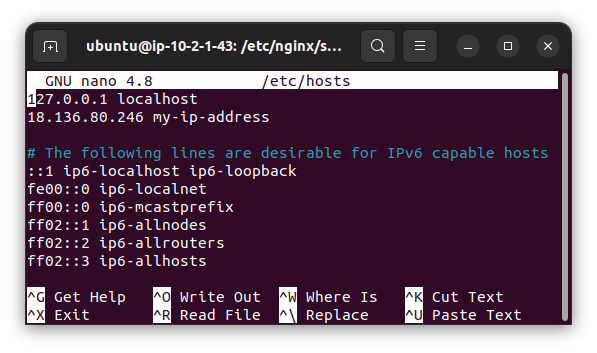
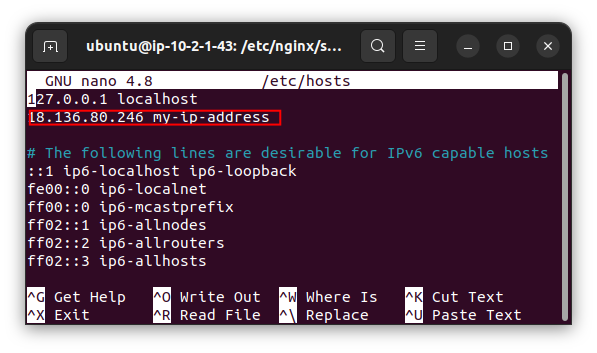
1.0

Changed region(s): [[0.0302, 0.3116, 0.4824, 0.3739]]

diff --git a/README.md b/README.md
@@ -1,5 +1,25 @@
 ## Jwaban Interview PT. Global Sukses Solusi (RUN System)
 
-- coba
+Sebelumnya saya mohon maaf mengganggu waktu dari Pak Budi, Pak Tedi, dan Bu Cita. Terima kasih telah memberikan saya waktu dan kesempatan untuk menjawab pertanyaan pada saat interview pada hari Rabu, 15 Juni 2022. Berikut jawaban saya mengenai pertanyaan pada saat interview yang belum terjawab.
+
+### Mengganti ip address pada konfigurasi reverse proxy nginx
+
+- Buka file `sudo nano /etc/hosts` dan tambahkan ip-address dan nama host yang diinginkan seperti gambar di bawah ini.
 
 <p align="center"><img src="pictures/1.png"></p>
+
+- lalu ganti ip-address pada konfigurasi reverse proxy nginx dengan vhost yang sudah dibuat
+
+<p align="center"><img src="pictures/2.png"></p>
+
+### Automated Deployment with Jenkins
+
+- Jenkins berjalan di port 8080 dan saya menggunakan domain `demo-dashboard1.runsystemdev.com` agar jenkins dapat mengakses https dan melakukan webhook ke repo, disini saya menggunakan repo GitHub.
+
+- login dengan username dan password yang telah dibuat. username: irvan & pass: irvan
+
+<p align="center"><img src="pictures/3.png"></p>
+
+- Install plugin tambahan ssh agent dengan masuk ke manage jenkins > plugin manager > pilih menu available > cari ssh agent > lalu install ssh agent
+
+<p align="center"><img src="pictures/4.png"></p>
